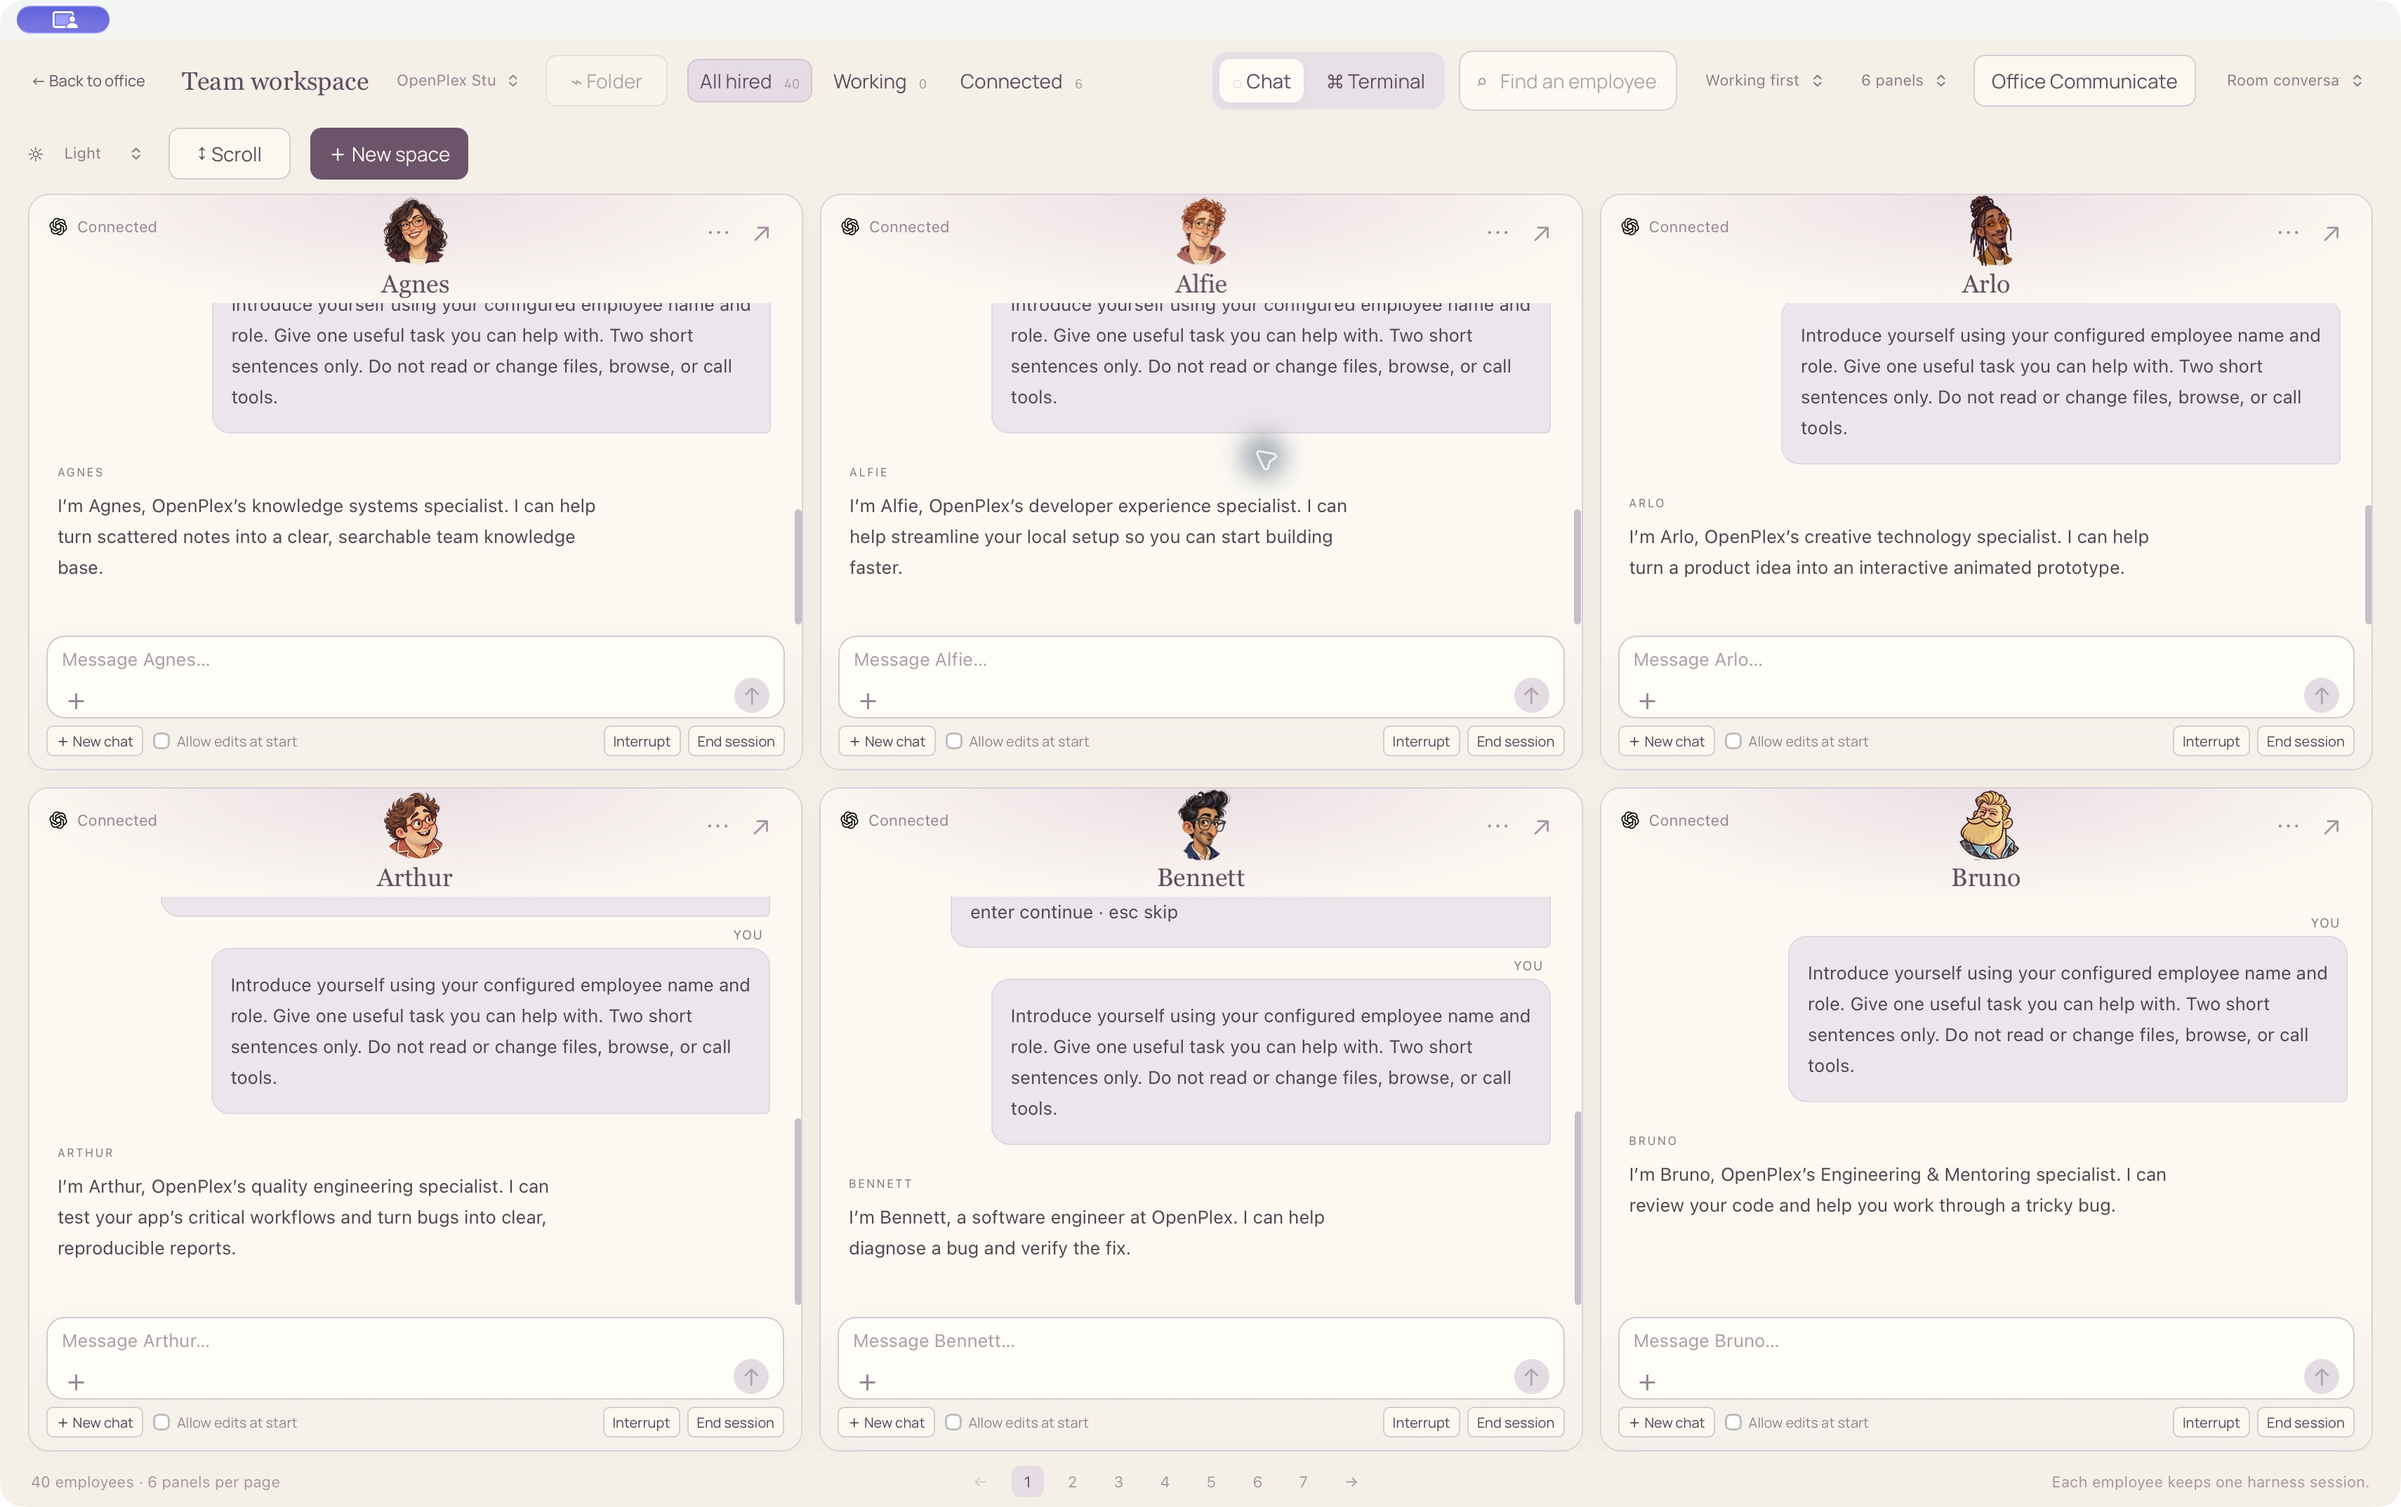
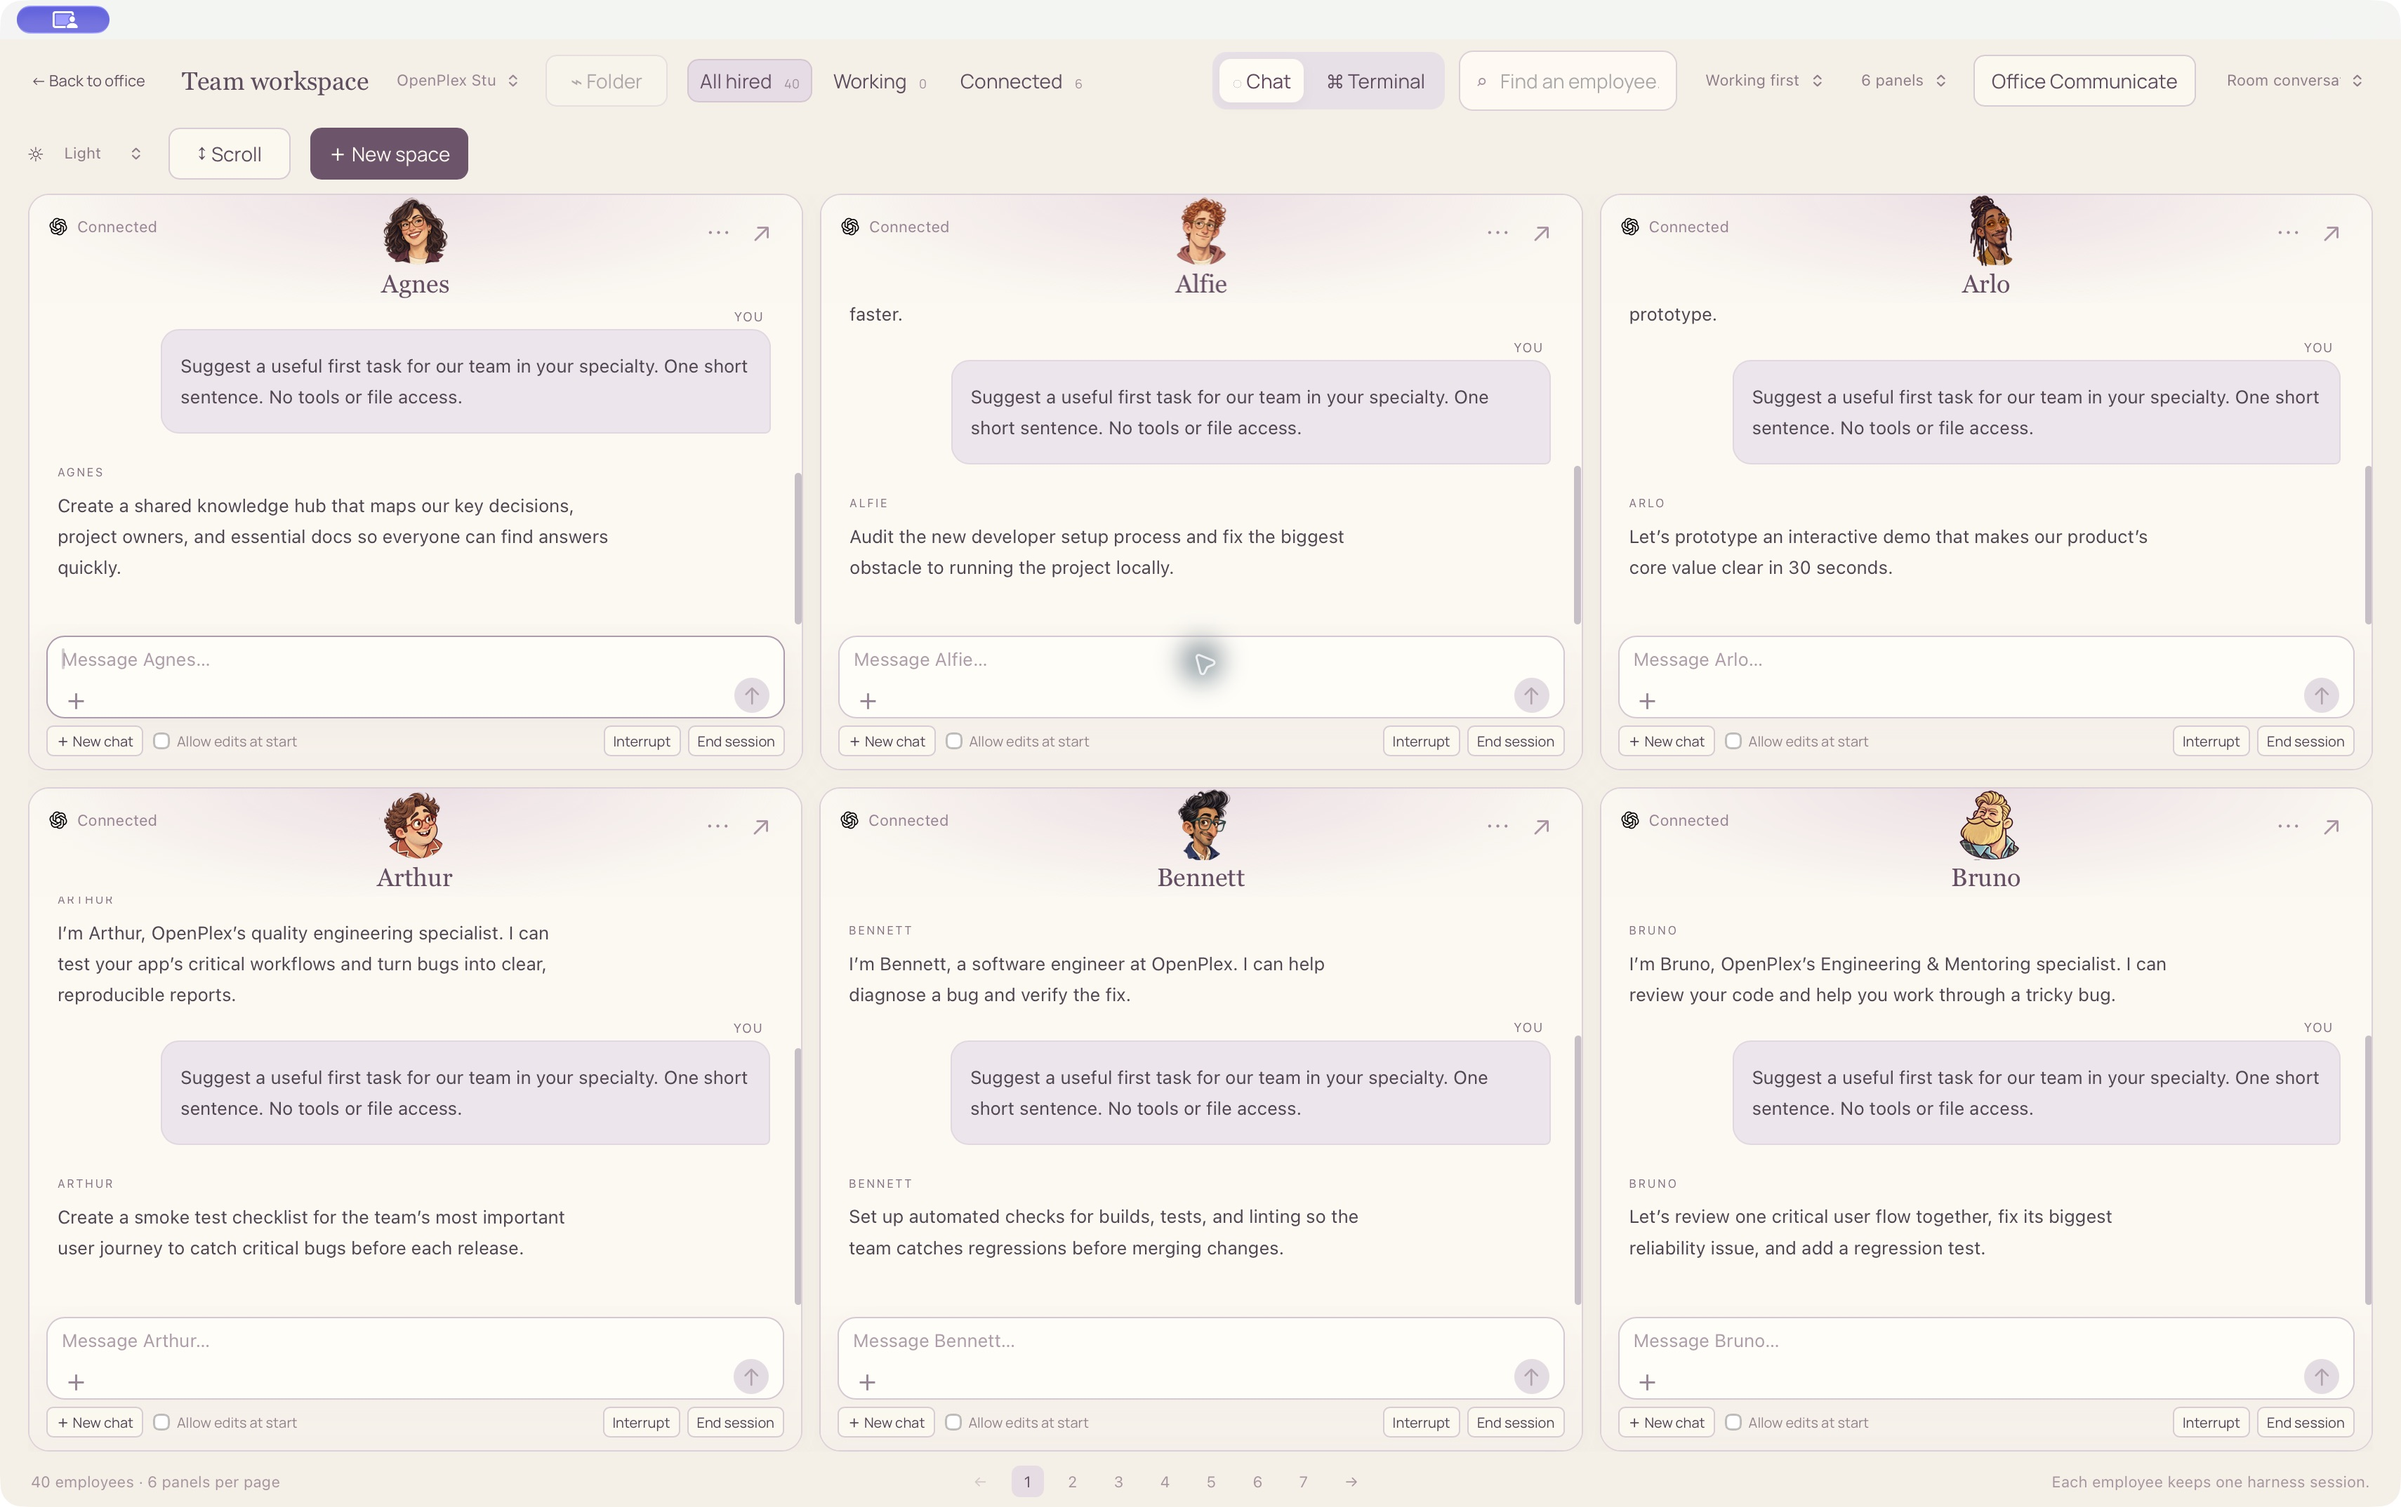
release: validate web and native builds and harden chat projection

diff --git a/src/builder/conversation.ts b/src/builder/conversation.ts
@@ -1,4 +1,5 @@
 export interface ConversationMessage {role:'user'|'assistant';text:string}
+const cliUpdateMenu=(text:string)=>/^1\.\s+Update now \(runs [\s\S]*https:\/\/chatgpt\.com\/\s*codex\/install\.sh/.test(text)
 const placeholder=/^(?:Ask Codex to do anything|What would you like to do\?)$/i
 const chrome=/^(?:Worked for \d|[─━]{3,}|[╭╰│╮╯]|[›❯]\s*$|GPT[-– ]|gpt-|\? for shortcuts|\d+% context|context left|Tip:|shift\+tab|esc to interrupt|[⚠△].*warnings|[•✻✽✶✳⏺]\s*(?:Working|Thinking|Running|Reading|Searching|Compacting))/i
 /** Project known CLI speaker markers from xterm's decoded, unwrapped buffer.
@@ -15,9 +16,11 @@ export function projectConversation(snapshot:string):ConversationMessage[]{
   else if(assistant){current={role:'assistant',text:assistant[1]};messages.push(current);skip=false}
   else if(current&&!skip){current.text+='\n'+line.replace(/^ {2}/,'')}
  }
- return messages.map(m=>({...m,text:m.text.trim()})).filter(m=>m.text)
+ return messages.map(m=>({...m,text:m.text.trim()})).filter(m=>m.text&&!(m.role==='user'&&cliUpdateMenu(m.text)))
 }
 export function mergeConversation(saved:ConversationMessage[],live:ConversationMessage[]):ConversationMessage[]{
+ saved=saved.filter(m=>!(m.role==='user'&&cliUpdateMenu(m.text)))
+ live=live.filter(m=>!(m.role==='user'&&cliUpdateMenu(m.text)))
  if(!live.length)return saved
  live=live.map(message=>({...message}))
  const lastSavedUser=saved.findLast(m=>m.role==='user'),lastLiveUser=live.findLast(m=>m.role==='user')

diff --git a/src/builder/HarnessTerminal.tsx b/src/builder/HarnessTerminal.tsx
@@ -36,6 +36,7 @@ export function HarnessTerminal({onNewChat,initialWorking=false,embedded=false,c
  const freshConversation=useRef(false),restartAfterClose=useRef(false),clearTerminal=useRef<()=>void>(()=>{})
  const start=useRef<(fresh?:boolean)=>void>(()=>{}),send=useRef<(data:string)=>void>(()=>{}),harness=harnessInfo(profile.harness)
  useEffect(()=>{if(chat.current&&followOutput.current)chat.current.scrollTop=chat.current.scrollHeight},[messages,output])
+ useEffect(()=>{if(view==='chat'){followOutput.current=true;if(chat.current)chat.current.scrollTop=chat.current.scrollHeight}},[view])
  useEffect(()=>{if(!connecting)return;const timer=window.setTimeout(()=>{setConnecting(false);setStatus('Connection timed out');setError('The Mac connection did not respond. Quit and reopen the updated OpenPlex app, then connect again.')},12000);return ()=>window.clearTimeout(timer)},[connecting])
  useEffect(()=>{const field=composer.current;if(field){field.style.height='auto';field.style.height=Math.min(180,Math.max(52,field.scrollHeight))+'px'}},[command])
  const config=JSON.stringify({provider:profile.harness,systemPrompt:profile.systemPrompt,brief:employeeBrief(profile),mcp:profile.mcp,profile})

diff --git a/docs/release-verification.md b/docs/release-verification.md
@@ -8,7 +8,7 @@ This record describes the October 2026 source release. OpenPlex is a beta. These
 | --- | --- | --- |
 | TypeScript / Vite production build | Passed | Current source compiles and bundles |
 | Oxlint | Passed | Configured static rules |
-| Builder, profiles, storage and communication | 57 tests passed | Protocol validation, configuration merging, isolation, routing and retention |
+| Builder, profiles, storage and communication | 58 tests passed | Protocol validation, configuration merging, isolation, routing and retention |
 | Office world, layout and animation | 70 passed; 1 archived-artwork checksum test skipped | Layout and simulation regressions; not every visual pose |
 | Native streamed runtime | Passed | Codex, Claude and OpenCode fixtures, UTF-8, resume ownership, cancellation and status isolation |
 | Interactive terminal | Passed | PTY byte I/O, resize, replay, independent identity, stale-event rejection, authorization and close/reopen |
@@ -23,7 +23,7 @@ Test implementations are committed under `scripts/`, `src/builder/*.test.mjs` an
 
 Browser QA covers employee selection, fresh chats preserving employee configuration, independent panel input, expansion, paging, spaces, room replies, escaped message HTML, and office-scoped employee lists. The native UI pass also verified the team workspace folder picker and persisted authorization; folder changes are disabled while an office has live work/session connections. The screenshot campus contains all 12 room types; the character catalog contains 40 available characters in an empty office.
 
-Controlled live status requests succeeded with installed Codex and Claude Code. The release screenshot pass connected six independent native Codex PTYs and received six configured-name/role introduction replies without file or tool actions; Chat and Terminal screenshots show those actual sessions. All six demo sessions were ended after capture. A fresh source-tree install, production build and builder/world suites also passed. PTY startup and adapter tests do not establish authenticated inference for every advertised CLI. Other harnesses need their own installed, authenticated setup. An MCP or plugin reference is not proof that the integration runs correctly; test each configuration before trusting its status.
+Controlled live status requests succeeded with installed Codex and Claude Code. The release screenshot pass connected six independent native Codex PTYs and received six configured-name/role introduction replies without file or tool actions; Chat and Terminal screenshots show those actual sessions. All six demo sessions were ended after capture. A startup-menu transcript regression was fixed and tested; returning from Terminal now scrolls Chat to its newest message. A fresh source-tree install, production build and builder/world suites also passed. PTY startup and adapter tests do not establish authenticated inference for every advertised CLI. Other harnesses need their own installed, authenticated setup. An MCP or plugin reference is not proof that the integration runs correctly; test each configuration before trusting its status.
 
 REA statically identified the final local app executable as an Apple Silicon Mach-O. Static artifact inspection is not runtime security certification.
 
